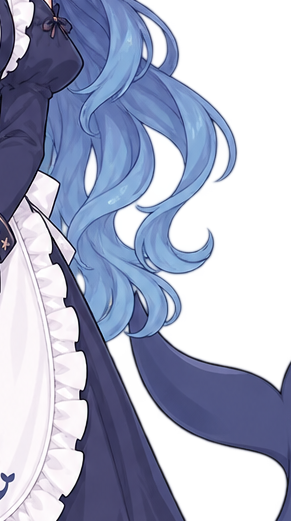
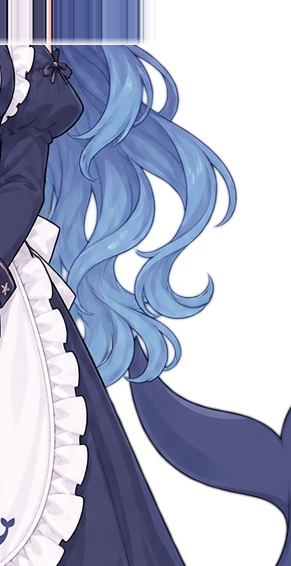
v0.14.36：修摆动开缝——用户实机报告静止微摆时发/裙直切边离开切线露底。三连修：① pivot 移到内侧切边（内边位移归零，裙-围裙竖缝消除）② 8 件顶延 16-45px（extend_part，远端顶边下坠量全覆盖，v0.14.17 腿件同工艺）③ 发缕幅度 2.5°→1.2°（波浪轮廓刚体摆动的固有露底带从 80×90px 块收窄到显示档 1-2px 细边）；α 流失数值扫描 16 相位：26322→18038px（显示档细边=自然发丝动感），双分支门禁 PASS；v13 43/43·v14 32/32

diff --git a/pet/__init__.py b/pet/__init__.py
@@ -1,4 +1,4 @@
 """桌宠核心包。"""
 
 # 版本单一源：app.APP_VERSION 由本值派生（发版只改这里）
-__version__ = "0.14.35"
+__version__ = "0.14.36"
